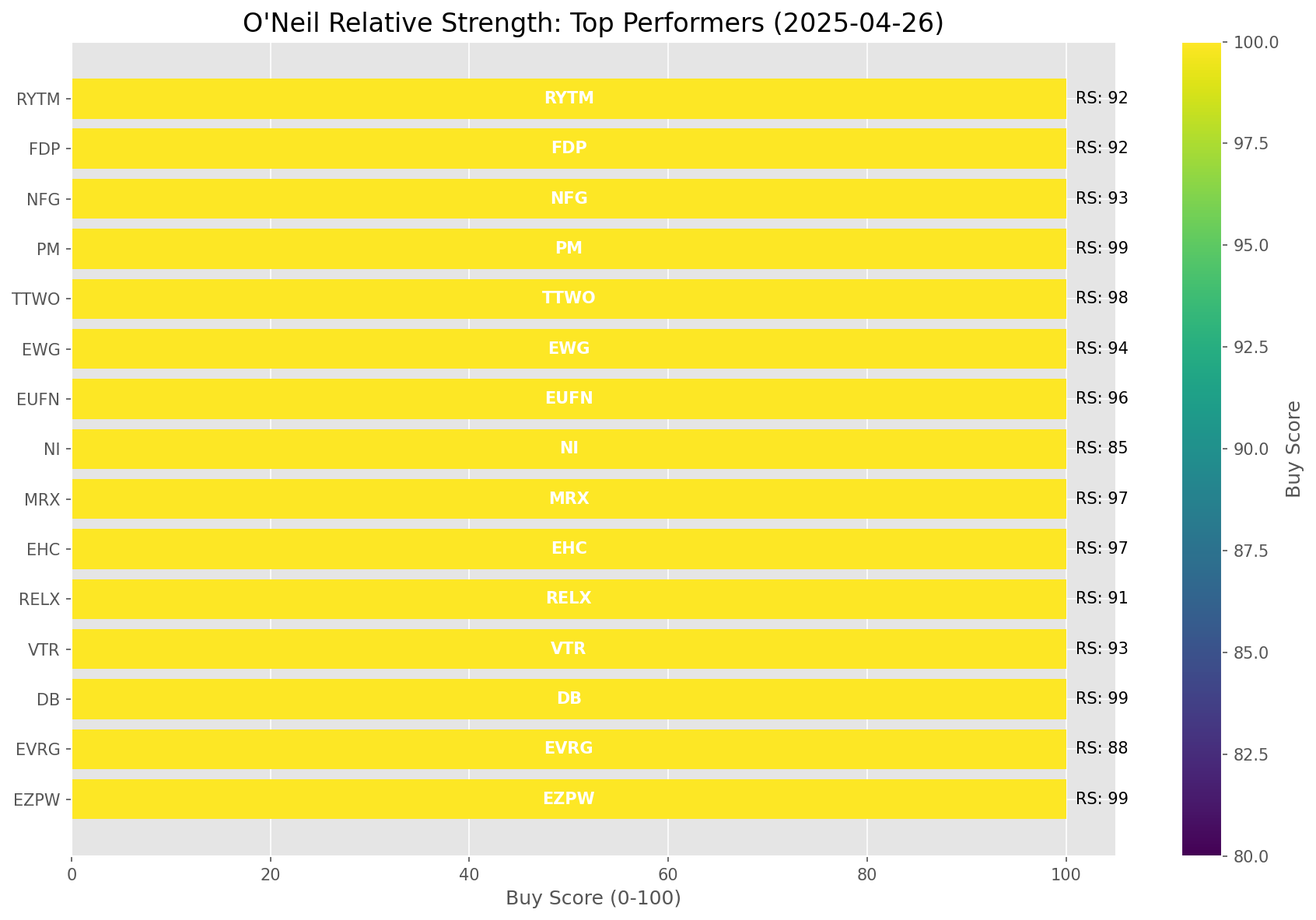
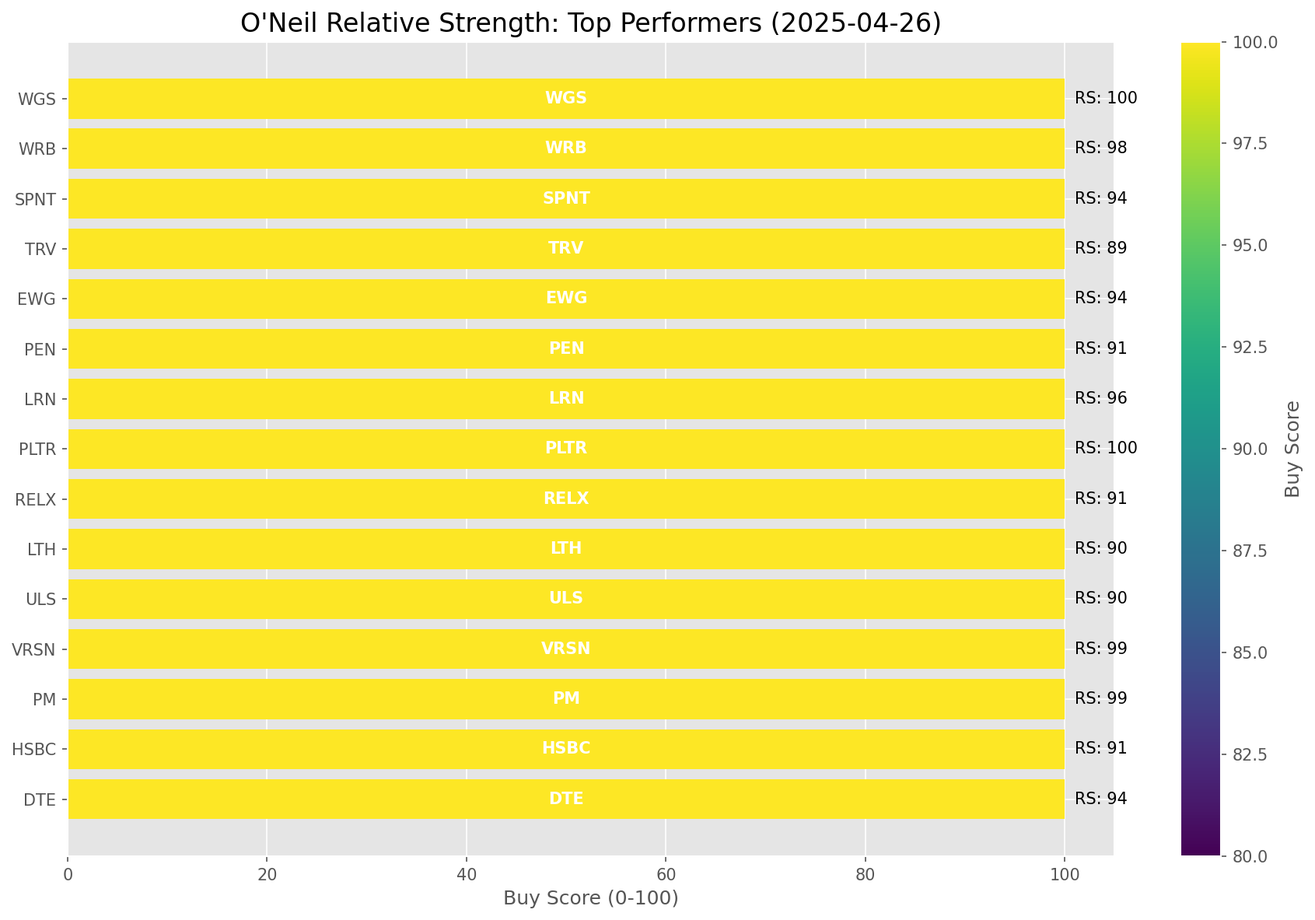
Add market report for 2025-04-26

diff --git a/oneil_relative_strength_report_2025-04-26.md b/oneil_relative_strength_report_2025-04-26.md
@@ -67,10 +67,10 @@ Based on William O'Neil's Relative Strength Methodology
 | [UUP](https://www.tradingview.com/chart/?symbol=UUP) | 59.4 | 59.0 | -6.20% | 10d ✓, 50d ✗, 200d ✗ | ↗ | U.S. Dollar |
 | [XLI](https://www.tradingview.com/chart/?symbol=XLI) | 55.9 | 52.0 | -8.55% | 10d ✓, 50d ✗, 200d ✗ | ↗ | Industrial |
 | [AIQ](https://www.tradingview.com/chart/?symbol=AIQ) | 54.4 | 49.0 | -9.79% | 10d ✓, 50d ✗, 200d ✗ | ↗ | Artificial Intelligence & Technology |
-| [TLT](https://www.tradingview.com/chart/?symbol=TLT) | 49.4 | 79.0 | 1.91% | 10d ✓, 50d ✗, 200d ✗ | ↘ | Long-term Treasuries |
+| [XLK](https://www.tradingview.com/chart/?symbol=XLK) | 49.4 | 39.0 | -12.88% | 10d ✓, 50d ✗, 200d ✗ | ↗ | Technology |
 | [PAVE](https://www.tradingview.com/chart/?symbol=PAVE) | 49.4 | 39.0 | -13.14% | 10d ✓, 50d ✗, 200d ✗ | ↗ | Infrastructure |
 | [BLOK](https://www.tradingview.com/chart/?symbol=BLOK) | 49.4 | 39.0 | -13.04% | 10d ✓, 50d ✗, 200d ✗ | ↗ | Blockchain & Cryptocurrency |
-| [XLK](https://www.tradingview.com/chart/?symbol=XLK) | 49.4 | 39.0 | -12.88% | 10d ✓, 50d ✗, 200d ✗ | ↗ | Technology |
+| [TLT](https://www.tradingview.com/chart/?symbol=TLT) | 49.4 | 79.0 | 1.91% | 10d ✓, 50d ✗, 200d ✗ | ↘ | Long-term Treasuries |
 | [XLY](https://www.tradingview.com/chart/?symbol=XLY) | 47.9 | 36.0 | -14.09% | 10d ✓, 50d ✗, 200d ✗ | ↗ | Consumer Discretionary |
 | [IYT](https://www.tradingview.com/chart/?symbol=IYT) | 44.4 | 29.0 | -17.03% | 10d ✓, 50d ✗, 200d ✗ | ↗ | Transportation |
 | [ARKK](https://www.tradingview.com/chart/?symbol=ARKK) | 43.4 | 27.0 | -18.18% | 10d ✓, 50d ✗, 200d ✗ | ↗ | Innovation |
@@ -106,62 +106,63 @@ The **Silver** sector (represented by **SLV**) is showing particularly strong re
 
 ## **Buy Recommendations**
 
-The following 72 stocks show exceptional relative strength:
+The following 73 stocks show exceptional relative strength:
 
 | RS Rating | Buy Score | Current Price | Chart | Name | Ticker |
 |-----------|-----------|---------------|-------|------|--------|
-| 100 | 100 | $111.01 | [Chart](https://www.tradingview.com/chart/?symbol=WGS) | GeneDx Holdings Corp. Class A Common Stock | WGS |
 | 100 | 100 | $112.78 | [Chart](https://www.tradingview.com/chart/?symbol=PLTR) | Palantir Technologies Inc. Class A Common Stock | PLTR |
-| 99 | 100 | $16.32 | [Chart](https://www.tradingview.com/chart/?symbol=EZPW) | Ezcorp Inc | EZPW |
-| 99 | 100 | $25.69 | [Chart](https://www.tradingview.com/chart/?symbol=DB) | Deutsche Bank Aktiengesellschaft | DB |
+| 100 | 100 | $111.01 | [Chart](https://www.tradingview.com/chart/?symbol=WGS) | GeneDx Holdings Corp. Class A Common Stock | WGS |
 | 99 | 100 | $170.24 | [Chart](https://www.tradingview.com/chart/?symbol=PM) | Philip Morris International Inc. | PM |
 | 99 | 100 | $272.79 | [Chart](https://www.tradingview.com/chart/?symbol=VRSN) | VeriSign Inc | VRSN |
 | 99 | 100 | $25.30 | [Chart](https://www.tradingview.com/chart/?symbol=TGI) | Triumph Group, Inc. | TGI |
-| 98 | 100 | $225.38 | [Chart](https://www.tradingview.com/chart/?symbol=TTWO) | Take-Two Interactive Software Inc | TTWO |
-| 98 | 100 | $620.72 | [Chart](https://www.tradingview.com/chart/?symbol=SPOT) | Spotify Technology S.A. | SPOT |
+| 99 | 100 | $25.69 | [Chart](https://www.tradingview.com/chart/?symbol=DB) | Deutsche Bank Aktiengesellschaft | DB |
+| 99 | 100 | $16.32 | [Chart](https://www.tradingview.com/chart/?symbol=EZPW) | Ezcorp Inc | EZPW |
 | 98 | 100 | $70.48 | [Chart](https://www.tradingview.com/chart/?symbol=WRB) | W.R. Berkley Corporation | WRB |
-| 98 | 100 | $23.35 | [Chart](https://www.tradingview.com/chart/?symbol=OR) | Osisko Gold Royalties Ltd | OR |
 | 98 | 100 | $47.97 | [Chart](https://www.tradingview.com/chart/?symbol=SEZL) | Sezzle Inc. Common Stock | SEZL |
+| 98 | 100 | $620.72 | [Chart](https://www.tradingview.com/chart/?symbol=SPOT) | Spotify Technology S.A. | SPOT |
+| 98 | 100 | $23.35 | [Chart](https://www.tradingview.com/chart/?symbol=OR) | Osisko Gold Royalties Ltd | OR |
+| 98 | 100 | $225.38 | [Chart](https://www.tradingview.com/chart/?symbol=TTWO) | Take-Two Interactive Software Inc | TTWO |
 | 97 | 100 | $113.37 | [Chart](https://www.tradingview.com/chart/?symbol=EHC) | Encompass Health Corporation Common Stock | EHC |
-| 97 | 100 | $42.74 | [Chart](https://www.tradingview.com/chart/?symbol=MRX) | Marex Group plc Ordinary Shares | MRX |
 | 97 | 100 | $65.46 | [Chart](https://www.tradingview.com/chart/?symbol=VRNA) | Verona Pharma plc | VRNA |
-| 97 | 100 | $87.61 | [Chart](https://www.tradingview.com/chart/?symbol=SNEX) | StoneX Group Inc. Common Stock | SNEX |
 | 97 | 100 | $71.71 | [Chart](https://www.tradingview.com/chart/?symbol=CORT) | Corcept Therapeutics Inc. | CORT |
+| 97 | 100 | $42.74 | [Chart](https://www.tradingview.com/chart/?symbol=MRX) | Marex Group plc Ordinary Shares | MRX |
+| 97 | 100 | $87.61 | [Chart](https://www.tradingview.com/chart/?symbol=SNEX) | StoneX Group Inc. Common Stock | SNEX |
+| 96 | 100 | $140.99 | [Chart](https://www.tradingview.com/chart/?symbol=LRN) | Stride, Inc. | LRN |
 | 96 | 100 | $29.76 | [Chart](https://www.tradingview.com/chart/?symbol=EUFN) | iShares MSCI Europe Financials ETF | EUFN |
 | 96 | 100 | $21.07 | [Chart](https://www.tradingview.com/chart/?symbol=GRND) | Grindr Inc. | GRND |
-| 96 | 100 | $140.99 | [Chart](https://www.tradingview.com/chart/?symbol=LRN) | Stride, Inc. | LRN |
-| 95 | 100 | $168.03 | [Chart](https://www.tradingview.com/chart/?symbol=SFM) | Sprouts Farmers Market, Inc. | SFM |
-| 95 | 100 | $37.43 | [Chart](https://www.tradingview.com/chart/?symbol=EXEL) | Exelixis Inc | EXEL |
 | 95 | 100 | $48.99 | [Chart](https://www.tradingview.com/chart/?symbol=GFL) | GFL Environmental Inc. Subordinate Voting Shares | GFL |
-| 95 | 100 | $285.90 | [Chart](https://www.tradingview.com/chart/?symbol=COR) | Cencora, Inc. | COR |
-| 95 | 100 | $530.96 | [Chart](https://www.tradingview.com/chart/?symbol=BRK.B) | BERKSHIRE HATHAWAY Class B | BRK.B |
 | 95 | 100 | $243.56 | [Chart](https://www.tradingview.com/chart/?symbol=RSG) | Republic Services Inc. | RSG |
-| 94 | 100 | $39.36 | [Chart](https://www.tradingview.com/chart/?symbol=EWG) | iShares MSCI Germany ETF | EWG |
+| 95 | 100 | $37.43 | [Chart](https://www.tradingview.com/chart/?symbol=EXEL) | Exelixis Inc | EXEL |
+| 95 | 100 | $285.90 | [Chart](https://www.tradingview.com/chart/?symbol=COR) | Cencora, Inc. | COR |
+| 95 | 100 | $168.03 | [Chart](https://www.tradingview.com/chart/?symbol=SFM) | Sprouts Farmers Market, Inc. | SFM |
+| 95 | 100 | $530.96 | [Chart](https://www.tradingview.com/chart/?symbol=BRK.B) | BERKSHIRE HATHAWAY Class B | BRK.B |
 | 94 | 100 | $134.76 | [Chart](https://www.tradingview.com/chart/?symbol=DTE) | DTE Energy Company | DTE |
+| 94 | 100 | $39.36 | [Chart](https://www.tradingview.com/chart/?symbol=EWG) | iShares MSCI Germany ETF | EWG |
 | 94 | 100 | $16.54 | [Chart](https://www.tradingview.com/chart/?symbol=SPNT) | SiriusPoint Ltd. | SPNT |
 | 94 | 100 | $77.84 | [Chart](https://www.tradingview.com/chart/?symbol=OGS) | ONE GAS, INC. | OGS |
 | 94 | 100 | $1101.53 | [Chart](https://www.tradingview.com/chart/?symbol=NFLX) | NetFlix Inc | NFLX |
 | 94 | 100 | $266.30 | [Chart](https://www.tradingview.com/chart/?symbol=CME) | CME Group Inc. | CME |
-| 93 | 100 | $68.16 | [Chart](https://www.tradingview.com/chart/?symbol=VTR) | Ventas, Inc. | VTR |
-| 93 | 100 | $77.90 | [Chart](https://www.tradingview.com/chart/?symbol=NFG) | National Fuel Gas Co. | NFG |
 | 93 | 100 | $173.76 | [Chart](https://www.tradingview.com/chart/?symbol=DGX) | Quest Diagnostics Inc. | DGX |
+| 93 | 100 | $68.16 | [Chart](https://www.tradingview.com/chart/?symbol=VTR) | Ventas, Inc. | VTR |
 | 93 | 100 | $116.72 | [Chart](https://www.tradingview.com/chart/?symbol=COOP) | Mr. Cooper Group Inc. Common Stock | COOP |
-| 92 | 100 | $34.43 | [Chart](https://www.tradingview.com/chart/?symbol=FDP) | Fresh Del Monte Produce Inc. | FDP |
+| 93 | 100 | $77.90 | [Chart](https://www.tradingview.com/chart/?symbol=NFG) | National Fuel Gas Co. | NFG |
+| 93 | 100 | $58.26 | [Chart](https://www.tradingview.com/chart/?symbol=MO) | Altria Group, Inc. | MO |
 | 92 | 100 | $63.76 | [Chart](https://www.tradingview.com/chart/?symbol=RYTM) | Rhythm Pharmaceuticals, Inc. Common Stock | RYTM |
 | 92 | 100 | $43.95 | [Chart](https://www.tradingview.com/chart/?symbol=NWN) | Northwest Natural Holding Company | NWN |
+| 92 | 100 | $34.43 | [Chart](https://www.tradingview.com/chart/?symbol=FDP) | Fresh Del Monte Produce Inc. | FDP |
+| 91 | 100 | $55.99 | [Chart](https://www.tradingview.com/chart/?symbol=HSBC) | HSBC Holdings PLC | HSBC |
 | 91 | 100 | $53.55 | [Chart](https://www.tradingview.com/chart/?symbol=RELX) | RELX PLC | RELX |
 | 91 | 100 | $299.78 | [Chart](https://www.tradingview.com/chart/?symbol=PEN) | Penumbra, Inc. | PEN |
-| 91 | 100 | $55.99 | [Chart](https://www.tradingview.com/chart/?symbol=HSBC) | HSBC Holdings PLC | HSBC |
 | 91 | 100 | $35.93 | [Chart](https://www.tradingview.com/chart/?symbol=PPL) | PPL Corporation | PPL |
-| 90 | 100 | $106.74 | [Chart](https://www.tradingview.com/chart/?symbol=AEP) | American Electric Power Company, Inc. | AEP |
-| 90 | 100 | $15.82 | [Chart](https://www.tradingview.com/chart/?symbol=BCS) | Barclays PLC | BCS |
 | 90 | 100 | $57.65 | [Chart](https://www.tradingview.com/chart/?symbol=ULS) | UL Solutions Inc. | ULS |
 | 90 | 100 | $31.16 | [Chart](https://www.tradingview.com/chart/?symbol=LTH) | Life Time Group Holdings, Inc. | LTH |
+| 90 | 100 | $15.82 | [Chart](https://www.tradingview.com/chart/?symbol=BCS) | Barclays PLC | BCS |
+| 90 | 100 | $106.74 | [Chart](https://www.tradingview.com/chart/?symbol=AEP) | American Electric Power Company, Inc. | AEP |
 | 89 | 100 | $259.16 | [Chart](https://www.tradingview.com/chart/?symbol=TRV) | The Travelers Companies, Inc. | TRV |
 | 89 | 100 | $31.11 | [Chart](https://www.tradingview.com/chart/?symbol=AHR) | American Healthcare REIT, Inc. | AHR |
-| 88 | 100 | $67.88 | [Chart](https://www.tradingview.com/chart/?symbol=EVRG) | Evergy, Inc. | EVRG |
-| 88 | 100 | $137.56 | [Chart](https://www.tradingview.com/chart/?symbol=CAH) | Cardinal Health, Inc. | CAH |
 | 88 | 100 | $159.65 | [Chart](https://www.tradingview.com/chart/?symbol=EAT) | Brinker International, Inc. | EAT |
+| 88 | 100 | $137.56 | [Chart](https://www.tradingview.com/chart/?symbol=CAH) | Cardinal Health, Inc. | CAH |
+| 88 | 100 | $67.88 | [Chart](https://www.tradingview.com/chart/?symbol=EVRG) | Evergy, Inc. | EVRG |
 | 87 | 100 | $105.41 | [Chart](https://www.tradingview.com/chart/?symbol=ATGE) | Adtalem Global Education Inc. Common Shares | ATGE |
 | 87 | 100 | $18.68 | [Chart](https://www.tradingview.com/chart/?symbol=KT) | KT Corp. | KT |
 | 85 | 100 | $39.45 | [Chart](https://www.tradingview.com/chart/?symbol=NI) | NiSource Inc. | NI |
@@ -170,61 +171,61 @@ The following 72 stocks show exceptional relative strength:
 | 85 | 97 | $67.83 | [Chart](https://www.tradingview.com/chart/?symbol=EBAY) | eBay Inc | EBAY |
 | 84 | 97 | $44.85 | [Chart](https://www.tradingview.com/chart/?symbol=OGE) | OGE Energy Corp. | OGE |
 | 85 | 95 | $124.19 | [Chart](https://www.tradingview.com/chart/?symbol=BECN) | Beacon Roofing Supply, Inc. | BECN |
-| 84 | 95 | $977.16 | [Chart](https://www.tradingview.com/chart/?symbol=COST) | Costco Wholesale Corp | COST |
-| 84 | 95 | $368.71 | [Chart](https://www.tradingview.com/chart/?symbol=MSTR) | MicroStrategy Inc | MSTR |
 | 84 | 95 | $49.60 | [Chart](https://www.tradingview.com/chart/?symbol=TRP) | TC Energy Corporation | TRP |
+| 84 | 95 | $977.16 | [Chart](https://www.tradingview.com/chart/?symbol=COST) | Costco Wholesale Corp | COST |
 | 81 | 95 | $84.61 | [Chart](https://www.tradingview.com/chart/?symbol=ETR) | Entergy Corporation | ETR |
 | 85 | 94 | $22.25 | [Chart](https://www.tradingview.com/chart/?symbol=CXW) | CoreCivic, Inc. | CXW |
 | 84 | 94 | $40.10 | [Chart](https://www.tradingview.com/chart/?symbol=FHI) | Federated Hermes, Inc. | FHI |
+| 84 | 94 | $368.71 | [Chart](https://www.tradingview.com/chart/?symbol=MSTR) | MicroStrategy Inc | MSTR |
 | 83 | 94 | $165.51 | [Chart](https://www.tradingview.com/chart/?symbol=CVLT) | Commault Systems, Inc. | CVLT |
 | 83 | 94 | $92.93 | [Chart](https://www.tradingview.com/chart/?symbol=DAVE) | Dave Inc. Class A Common Stock | DAVE |
 | 81 | 94 | $157.10 | [Chart](https://www.tradingview.com/chart/?symbol=TKO) | TKO Group Holdings, Inc. | TKO |
 | 83 | 93 | $56.31 | [Chart](https://www.tradingview.com/chart/?symbol=IGF) | iShares Global Infrastructure ETF | IGF |
 | 80 | 93 | $36.65 | [Chart](https://www.tradingview.com/chart/?symbol=TDS) | Telephone and Data Systems Inc. | TDS |
-| 81 | 92 | $50.02 | [Chart](https://www.tradingview.com/chart/?symbol=VTIP) | Vanguard Short-Term Inflation-Protected Securities Index Fund | VTIP |
+| 81 | 91 | $50.02 | [Chart](https://www.tradingview.com/chart/?symbol=VTIP) | Vanguard Short-Term Inflation-Protected Securities Index Fund | VTIP |
 
 ---
 
 
 ## **Sell Recommendations**
 
-The following 140 stocks show deteriorating relative strength:
+The following 141 stocks show deteriorating relative strength:
 
 | RS Rating | Sell Score | Current Price | Chart | Name | Ticker |
 |-----------|------------|---------------|-------|------|--------|
-| 1 | 100 | $15.82 | [Chart](https://www.tradingview.com/chart/?symbol=VTLE) | Vital Energy, Inc. | VTLE |
 | 1 | 100 | $10.75 | [Chart](https://www.tradingview.com/chart/?symbol=AMRC) | Ameresco, Inc. | AMRC |
 | 1 | 100 | $10.05 | [Chart](https://www.tradingview.com/chart/?symbol=FTRE) | Fortrea Holdings Inc. Common Stock | FTRE |
+| 1 | 100 | $15.82 | [Chart](https://www.tradingview.com/chart/?symbol=VTLE) | Vital Energy, Inc. | VTLE |
 | 1 | 100 | $10.03 | [Chart](https://www.tradingview.com/chart/?symbol=FLYW) | Flywire Corporation Voting Common Stock | FLYW |
 | 2 | 100 | $18.06 | [Chart](https://www.tradingview.com/chart/?symbol=TNDM) | Tandem Diabetes Care, Inc. | TNDM |
 | 3 | 100 | $55.03 | [Chart](https://www.tradingview.com/chart/?symbol=LABU) | Direxion Daily S&P Biotech Bull 3X Shares | LABU |
 | 3 | 100 | $17.00 | [Chart](https://www.tradingview.com/chart/?symbol=SSTK) | SHUTTERSTOCK, INC. | SSTK |
 | 3 | 100 | $18.38 | [Chart](https://www.tradingview.com/chart/?symbol=DAVA) | Endava plc American Depositary Shares (each representing one Class A Ordinary Share) | DAVA |
 | 4 | 100 | $13.32 | [Chart](https://www.tradingview.com/chart/?symbol=ODP) | The ODP Corporation Common Stock | ODP |
-| 5 | 100 | $13.25 | [Chart](https://www.tradingview.com/chart/?symbol=ARWR) | Arrowhead Research Corporation | ARWR |
-| 5 | 100 | $22.88 | [Chart](https://www.tradingview.com/chart/?symbol=NSSC) | Napco Security Technologies, Inc | NSSC |
 | 5 | 100 | $24.07 | [Chart](https://www.tradingview.com/chart/?symbol=RPD) | Rapid7, Inc. Common Stock | RPD |
-| 6 | 100 | $13.32 | [Chart](https://www.tradingview.com/chart/?symbol=GCT) | GigaCloud Technology Inc Class A Ordinary Shares | GCT |
+| 5 | 100 | $22.88 | [Chart](https://www.tradingview.com/chart/?symbol=NSSC) | Napco Security Technologies, Inc | NSSC |
+| 5 | 100 | $13.25 | [Chart](https://www.tradingview.com/chart/?symbol=ARWR) | Arrowhead Research Corporation | ARWR |
 | 6 | 100 | $21.45 | [Chart](https://www.tradingview.com/chart/?symbol=SPT) | Sprout Social, Inc Class A Common Stock | SPT |
 | 6 | 100 | $12.43 | [Chart](https://www.tradingview.com/chart/?symbol=IMXI) | International Money Express, Inc. | IMXI |
+| 6 | 100 | $13.32 | [Chart](https://www.tradingview.com/chart/?symbol=GCT) | GigaCloud Technology Inc Class A Ordinary Shares | GCT |
 | 6 | 100 | $19.25 | [Chart](https://www.tradingview.com/chart/?symbol=SG) | Sweetgreen, Inc. | SG |
+| 7 | 100 | $16.81 | [Chart](https://www.tradingview.com/chart/?symbol=IART) | Integra LifeSciences Holdings | IART |
 | 7 | 100 | $15.24 | [Chart](https://www.tradingview.com/chart/?symbol=MEG) | Montrose Environmental Group, Inc. | MEG |
 | 7 | 100 | $32.96 | [Chart](https://www.tradingview.com/chart/?symbol=SCSC) | Scansource Inc | SCSC |
-| 7 | 100 | $16.81 | [Chart](https://www.tradingview.com/chart/?symbol=IART) | Integra LifeSciences Holdings | IART |
 | 8 | 100 | $13.28 | [Chart](https://www.tradingview.com/chart/?symbol=DV) | DoubleVerify Holdings, Inc. | DV |
-| 8 | 100 | $18.76 | [Chart](https://www.tradingview.com/chart/?symbol=PDFS) | PDF Solutions Inc | PDFS |
 | 8 | 100 | $66.55 | [Chart](https://www.tradingview.com/chart/?symbol=CAMT) | Camtek Ltd | CAMT |
 | 8 | 100 | $10.01 | [Chart](https://www.tradingview.com/chart/?symbol=MYGN) | Myriad Genetics Inc | MYGN |
+| 8 | 100 | $18.76 | [Chart](https://www.tradingview.com/chart/?symbol=PDFS) | PDF Solutions Inc | PDFS |
 | 9 | 100 | $14.87 | [Chart](https://www.tradingview.com/chart/?symbol=TEVA) | Teva Pharmaceutical Industries Limited American Depositary Shares | TEVA |
-| 10 | 100 | $21.93 | [Chart](https://www.tradingview.com/chart/?symbol=SYM) | Symbotic Inc. Class A Common Stock | SYM |
-| 10 | 100 | $113.34 | [Chart](https://www.tradingview.com/chart/?symbol=ARM) | Arm Holdings plc American Depositary Shares | ARM |
 | 10 | 100 | $19.19 | [Chart](https://www.tradingview.com/chart/?symbol=AMN) | AMN Healthcare Services | AMN |
+| 10 | 100 | $113.34 | [Chart](https://www.tradingview.com/chart/?symbol=ARM) | Arm Holdings plc American Depositary Shares | ARM |
+| 10 | 100 | $21.93 | [Chart](https://www.tradingview.com/chart/?symbol=SYM) | Symbotic Inc. Class A Common Stock | SYM |
 | 11 | 100 | $13.75 | [Chart](https://www.tradingview.com/chart/?symbol=XRAY) | DENTSPLY SIRONA Inc. | XRAY |
-| 12 | 100 | $12.73 | [Chart](https://www.tradingview.com/chart/?symbol=TRIP) | TripAdvisor, Inc. | TRIP |
 | 12 | 100 | $12.91 | [Chart](https://www.tradingview.com/chart/?symbol=ARCT) | Arcturus Therapeutics Holdings Inc. Common Stock | ARCT |
-| 13 | 100 | $28.55 | [Chart](https://www.tradingview.com/chart/?symbol=SRDX) | Surmodics, Inc. Common Stock | SRDX |
-| 13 | 100 | $121.35 | [Chart](https://www.tradingview.com/chart/?symbol=BLDR) | Builders FirstSource, Inc. | BLDR |
+| 12 | 100 | $12.73 | [Chart](https://www.tradingview.com/chart/?symbol=TRIP) | TripAdvisor, Inc. | TRIP |
 | 13 | 100 | $21.10 | [Chart](https://www.tradingview.com/chart/?symbol=FOXF) | Fox Factory Holding Corp. Common Stock | FOXF |
+| 13 | 100 | $121.35 | [Chart](https://www.tradingview.com/chart/?symbol=BLDR) | Builders FirstSource, Inc. | BLDR |
+| 13 | 100 | $28.55 | [Chart](https://www.tradingview.com/chart/?symbol=SRDX) | Surmodics, Inc. Common Stock | SRDX |
 | 15 | 100 | $21.29 | [Chart](https://www.tradingview.com/chart/?symbol=ST) | Sensata Technologies Holding plc | ST |
 | 3 | 99 | $77.35 | [Chart](https://www.tradingview.com/chart/?symbol=ILMN) | Illumina Inc | ILMN |
 | 4 | 99 | $102.59 | [Chart](https://www.tradingview.com/chart/?symbol=BOOT) | Boot Barn Holdings, Inc. | BOOT |
@@ -238,12 +239,12 @@ The following 140 stocks show deteriorating relative strength:
 | 9 | 96 | $10.01 | [Chart](https://www.tradingview.com/chart/?symbol=VYX) | NCR Voyix Corporation | VYX |
 | 9 | 96 | $21.61 | [Chart](https://www.tradingview.com/chart/?symbol=TDC) | TERADATA CORPORATION | TDC |
 | 13 | 96 | $25.15 | [Chart](https://www.tradingview.com/chart/?symbol=RNG) | RINGCENTRAL, INC. | RNG |
-| 15 | 96 | $62.71 | [Chart](https://www.tradingview.com/chart/?symbol=SPB) | Spectrum Brands Holdings, Inc. | SPB |
 | 18 | 96 | $28.87 | [Chart](https://www.tradingview.com/chart/?symbol=YETI) | YETI Holdings, Inc. Common Stock | YETI |
 | 6 | 95 | $45.70 | [Chart](https://www.tradingview.com/chart/?symbol=PSTG) | Pure Storage, Inc. Class A | PSTG |
 | 8 | 95 | $10.24 | [Chart](https://www.tradingview.com/chart/?symbol=LSPD) | Lightspeed Commerce Inc. | LSPD |
 | 9 | 95 | $11.84 | [Chart](https://www.tradingview.com/chart/?symbol=MBC) | MasterBrand, Inc. | MBC |
 | 11 | 95 | $88.45 | [Chart](https://www.tradingview.com/chart/?symbol=NTAP) | NetApp, Inc | NTAP |
+| 16 | 95 | $62.71 | [Chart](https://www.tradingview.com/chart/?symbol=SPB) | Spectrum Brands Holdings, Inc. | SPB |
 | 17 | 95 | $11.34 | [Chart](https://www.tradingview.com/chart/?symbol=HPK) | HighPeak Energy, Inc. Common Stock | HPK |
 | 20 | 95 | $11.57 | [Chart](https://www.tradingview.com/chart/?symbol=JAMF) | Jamf Holding Corp. Common Stock | JAMF |
 | 10 | 94 | $30.85 | [Chart](https://www.tradingview.com/chart/?symbol=UWM) | ProShares Ultra Russell2000 | UWM |
@@ -269,13 +270,13 @@ The following 140 stocks show deteriorating relative strength:
 | 23 | 88 | $37.31 | [Chart](https://www.tradingview.com/chart/?symbol=STNG) | Scorpio Tankers Inc. | STNG |
 | 24 | 88 | $26.32 | [Chart](https://www.tradingview.com/chart/?symbol=GDEN) | Golden Entertainment, Inc. Common Stock | GDEN |
 | 26 | 88 | $79.79 | [Chart](https://www.tradingview.com/chart/?symbol=AKAM) | Akamai Technologies Inc | AKAM |
-| 27 | 88 | $26.79 | [Chart](https://www.tradingview.com/chart/?symbol=COLL) | Collegium Pharmaceutical, Inc. Common Stock | COLL |
 | 13 | 87 | $10.24 | [Chart](https://www.tradingview.com/chart/?symbol=EXPI) | eXp World Holdings, Inc. Common Stock | EXPI |
 | 14 | 87 | $10.33 | [Chart](https://www.tradingview.com/chart/?symbol=SEMR) | SEMrush Holdings, Inc. | SEMR |
-| 19 | 87 | $211.56 | [Chart](https://www.tradingview.com/chart/?symbol=FDX) | FedEx Corporation | FDX |
 | 25 | 87 | $45.46 | [Chart](https://www.tradingview.com/chart/?symbol=EXAS) | Exact Sciences Corp | EXAS |
+| 28 | 87 | $26.79 | [Chart](https://www.tradingview.com/chart/?symbol=COLL) | Collegium Pharmaceutical, Inc. Common Stock | COLL |
 | 30 | 87 | $10.16 | [Chart](https://www.tradingview.com/chart/?symbol=MAX) | MediaAlpha, Inc. | MAX |
 | 19 | 86 | $48.86 | [Chart](https://www.tradingview.com/chart/?symbol=ERX) | Direxion Daily Energy Bull 2X Shares | ERX |
+| 19 | 86 | $211.56 | [Chart](https://www.tradingview.com/chart/?symbol=FDX) | FedEx Corporation | FDX |
 | 24 | 86 | $94.62 | [Chart](https://www.tradingview.com/chart/?symbol=CHRD) | Chord Energy Corporation Common Stock | CHRD |
 | 30 | 86 | $10.34 | [Chart](https://www.tradingview.com/chart/?symbol=CMRE) | Costamare Inc. | CMRE |
 | 17 | 85 | $10.15 | [Chart](https://www.tradingview.com/chart/?symbol=HLIT) | Harmonic Inc | HLIT |
@@ -283,31 +284,32 @@ The following 140 stocks show deteriorating relative strength:
 | 20 | 84 | $11.89 | [Chart](https://www.tradingview.com/chart/?symbol=APLE) | Apple Hospitality REIT, Inc. | APLE |
 | 21 | 84 | $28.84 | [Chart](https://www.tradingview.com/chart/?symbol=MBUU) | Malibu Boats, Inc. Class A | MBUU |
 | 29 | 84 | $23.50 | [Chart](https://www.tradingview.com/chart/?symbol=HOG) | Harley-Davidson, Inc. | HOG |
-| 32 | 84 | $11.29 | [Chart](https://www.tradingview.com/chart/?symbol=ABR) | Arbor Realty Trust, Inc. | ABR |
-| 19 | 83 | $196.65 | [Chart](https://www.tradingview.com/chart/?symbol=NVMI) | Nova Ltd. Ordinary Shares | NVMI |
 | 22 | 83 | $75.82 | [Chart](https://www.tradingview.com/chart/?symbol=WD) | Walker & Dunlop, Inc. | WD |
 | 27 | 83 | $50.68 | [Chart](https://www.tradingview.com/chart/?symbol=POWI) | Power Integrations Inc | POWI |
+| 33 | 83 | $11.29 | [Chart](https://www.tradingview.com/chart/?symbol=ABR) | Arbor Realty Trust, Inc. | ABR |
 | 37 | 83 | $16.54 | [Chart](https://www.tradingview.com/chart/?symbol=TRMD) | TORM plc Class A Common Stock | TRMD |
 | 20 | 82 | $50.26 | [Chart](https://www.tradingview.com/chart/?symbol=RDNT) | RadNet, Inc. Common Stock | RDNT |
+| 20 | 82 | $196.65 | [Chart](https://www.tradingview.com/chart/?symbol=NVMI) | Nova Ltd. Ordinary Shares | NVMI |
 | 25 | 82 | $11.83 | [Chart](https://www.tradingview.com/chart/?symbol=NAVI) | Navient Corporation | NAVI |
+| 27 | 82 | $41.32 | [Chart](https://www.tradingview.com/chart/?symbol=FEPI) | REX FANG & Innovation Equity Premium Income ETF | FEPI |
 | 30 | 82 | $12.90 | [Chart](https://www.tradingview.com/chart/?symbol=WDS) | Woodside Energy Group Limited American Depositary Shares, each representing one Ordinary Share | WDS |
 | 26 | 81 | $11.15 | [Chart](https://www.tradingview.com/chart/?symbol=SHC) | Sotera Health Company Common Stock | SHC |
 | 36 | 81 | $13.87 | [Chart](https://www.tradingview.com/chart/?symbol=MANU) | MANCHESTER UNITED PLC | MANU |
-| 23 | 80 | $53.70 | [Chart](https://www.tradingview.com/chart/?symbol=KBH) | KB Home | KBH |
 | 24 | 80 | $74.98 | [Chart](https://www.tradingview.com/chart/?symbol=IR) | Ingersoll Rand Inc. Common Stock | IR |
 | 28 | 80 | $168.53 | [Chart](https://www.tradingview.com/chart/?symbol=IBP) | INSTALLED BUILDING PRODUCTS, INC. | IBP |
 | 28 | 80 | $21.54 | [Chart](https://www.tradingview.com/chart/?symbol=KIDS) | OrthoPediatrics Corp. Common Stock | KIDS |
 | 32 | 80 | $296.69 | [Chart](https://www.tradingview.com/chart/?symbol=BLD) | TopBuild Corp. Common Stock | BLD |
+| 23 | 79 | $53.70 | [Chart](https://www.tradingview.com/chart/?symbol=KBH) | KB Home | KBH |
 | 29 | 79 | $22.40 | [Chart](https://www.tradingview.com/chart/?symbol=ARKG) | ARK Genomic Revolution ETF | ARKG |
 | 23 | 78 | $74.07 | [Chart](https://www.tradingview.com/chart/?symbol=AGYS) | Agilysys, Inc. Common Stock (DE) | AGYS |
-| 27 | 78 | $13.88 | [Chart](https://www.tradingview.com/chart/?symbol=HST) | Host Hotels & Resorts, Inc. | HST |
 | 27 | 78 | $10.71 | [Chart](https://www.tradingview.com/chart/?symbol=DBRG) | DigitalBridge Group, Inc. | DBRG |
-| 28 | 78 | $16.71 | [Chart](https://www.tradingview.com/chart/?symbol=MLNK) | MeridianLink, Inc. | MLNK |
+| 27 | 78 | $13.88 | [Chart](https://www.tradingview.com/chart/?symbol=HST) | Host Hotels & Resorts, Inc. | HST |
 | 30 | 78 | $35.55 | [Chart](https://www.tradingview.com/chart/?symbol=IAC) | IAC Inc. Common Stock | IAC |
 | 35 | 78 | $15.53 | [Chart](https://www.tradingview.com/chart/?symbol=PSFE) | Paysafe Limited | PSFE |
-| 30 | 77 | $32.39 | [Chart](https://www.tradingview.com/chart/?symbol=CRNX) | Crinetics Pharmaceuticals, Inc. | CRNX |
+| 28 | 77 | $16.71 | [Chart](https://www.tradingview.com/chart/?symbol=MLNK) | MeridianLink, Inc. | MLNK |
 | 30 | 77 | $11.92 | [Chart](https://www.tradingview.com/chart/?symbol=CIM) | Chimera Investment Corp. | CIM |
 | 29 | 76 | $18.21 | [Chart](https://www.tradingview.com/chart/?symbol=ELVN) | Enliven Therapeutics, Inc. Common Stock | ELVN |
+| 31 | 76 | $32.39 | [Chart](https://www.tradingview.com/chart/?symbol=CRNX) | Crinetics Pharmaceuticals, Inc. | CRNX |
 | 32 | 76 | $12.87 | [Chart](https://www.tradingview.com/chart/?symbol=MTUS) | Metallus Inc. | MTUS |
 | 34 | 76 | $14.34 | [Chart](https://www.tradingview.com/chart/?symbol=ZIM) | ZIM Integrated Shipping Services Ltd. | ZIM |
 | 36 | 76 | $33.48 | [Chart](https://www.tradingview.com/chart/?symbol=PZZA) | Papa John's International Inc | PZZA |
@@ -317,19 +319,19 @@ The following 140 stocks show deteriorating relative strength:
 | 37 | 74 | $10.80 | [Chart](https://www.tradingview.com/chart/?symbol=CELC) | Celcuity Inc. Common Stock | CELC |
 | 31 | 72 | $91.26 | [Chart](https://www.tradingview.com/chart/?symbol=ITB) | iShares U.S. Home Construction ETF | ITB |
 | 31 | 72 | $187.99 | [Chart](https://www.tradingview.com/chart/?symbol=RGA) | Reinsurance Group of America, Incorporated | RGA |
-| 31 | 72 | $21.22 | [Chart](https://www.tradingview.com/chart/?symbol=MGY) | Magnolia Oil & Gas Corporation Class A Common Stock | MGY |
 | 34 | 72 | $17.91 | [Chart](https://www.tradingview.com/chart/?symbol=HTGC) | Hercules Capital, Inc. | HTGC |
 | 35 | 72 | $29.45 | [Chart](https://www.tradingview.com/chart/?symbol=AGIO) | Agios Pharmaceuticals, Inc. | AGIO |
+| 31 | 71 | $21.22 | [Chart](https://www.tradingview.com/chart/?symbol=MGY) | Magnolia Oil & Gas Corporation Class A Common Stock | MGY |
 | 32 | 71 | $18.25 | [Chart](https://www.tradingview.com/chart/?symbol=PRAA) | PRA Group, Inc. | PRAA |
 | 36 | 71 | $51.94 | [Chart](https://www.tradingview.com/chart/?symbol=LW) | Lamb Weston Holdings, Inc. | LW |
 | 30 | 70 | $42.19 | [Chart](https://www.tradingview.com/chart/?symbol=HNI) | HNI Corporation | HNI |
 | 34 | 70 | $44.02 | [Chart](https://www.tradingview.com/chart/?symbol=PRKS) | United Parks & Resorts Inc. | PRKS |
 | 37 | 70 | $121.57 | [Chart](https://www.tradingview.com/chart/?symbol=J) | Jacobs Solutions Inc. | J |
 | 38 | 70 | $28.27 | [Chart](https://www.tradingview.com/chart/?symbol=BWA) | BorgWarner Inc. | BWA |
-| 36 | 69 | $144.65 | [Chart](https://www.tradingview.com/chart/?symbol=IWN) | iShares Russell 2000 Value ETF | IWN |
 | 32 | 68 | $93.61 | [Chart](https://www.tradingview.com/chart/?symbol=XHB) | SPDR S&P Homebuilders ETF | XHB |
-| 34 | 66 | $10.64 | [Chart](https://www.tradingview.com/chart/?symbol=AVO) | Mission Produce, Inc. Common Stock | AVO |
+| 37 | 68 | $144.65 | [Chart](https://www.tradingview.com/chart/?symbol=IWN) | iShares Russell 2000 Value ETF | IWN |
 | 38 | 66 | $11.65 | [Chart](https://www.tradingview.com/chart/?symbol=EOLS) | Evolus, Inc. Common Stock | EOLS |
+| 35 | 65 | $10.64 | [Chart](https://www.tradingview.com/chart/?symbol=AVO) | Mission Produce, Inc. Common Stock | AVO |
 | 36 | 65 | $113.07 | [Chart](https://www.tradingview.com/chart/?symbol=EOG) | EOG Resources, Inc. | EOG |
 | 38 | 64 | $31.83 | [Chart](https://www.tradingview.com/chart/?symbol=AXTA) | Axalta Coating Systems Ltd. | AXTA |
 
